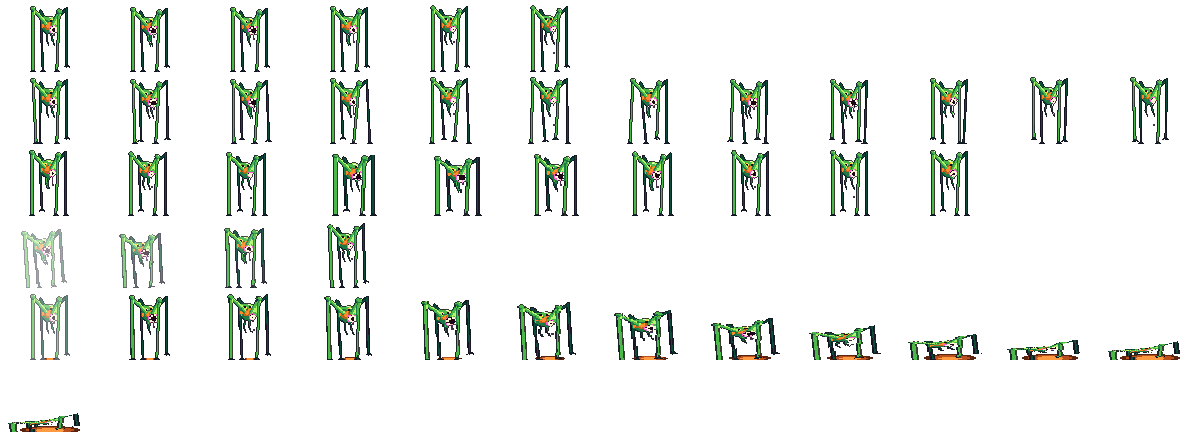
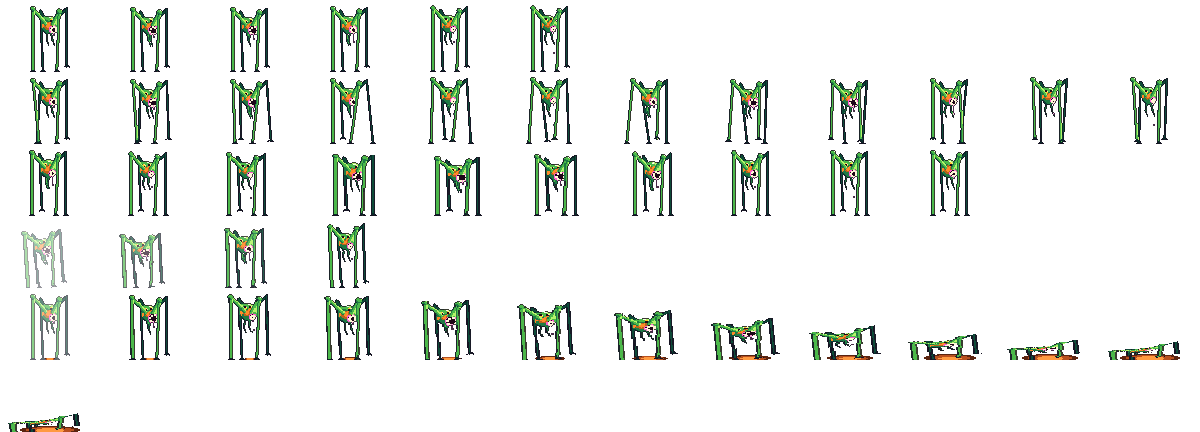
Enemies: walk cadence follows speed (no foot sliding), the blob humps, longarm strides longer
Suites run: enemy_cadence, enemy_variety, enemy_mind, flyer, roll, breach, flat_follow, softlock, building_floors, crowd_push, stair_block, floor_adopt, survivor_ai. Full suite not run.
Claude-Session: https://claude.ai/code/session_01ANpZxvvcv9nsgWy9iXumGL

diff --git a/tools/art/creatures.py b/tools/art/creatures.py
@@ -357,7 +357,7 @@ def reach(c, ph, pulse, walking, fr):
     bob = 0.9 * math.sin(4 * math.pi * ph) if walking else 0.7 * pulse
     bx, by = 21.0, 20.0 + bob
     homes = (8.0, 16.0, 27.0, 35.0)
-    feet = [step(ph + (0.0, 0.5, 0.25, 0.75)[k], homes[k], 5.0 if walking else 0.0, 4.0) for k in range(4)]
+    feet = [step(ph + (0.0, 0.5, 0.25, 0.75)[k], homes[k], 10.0 if walking else 0.0, 4.0) for k in range(4)]   # stride 10 x 1.25: right for ~19 px/s (WALK_DESIGN_SPEED)
     elbows = ((8.0, 7.0), (14.0, 9.0), (29.0, 9.0), (35.0, 7.0))
     for k in (1, 3):
         P.limb(c, (bx + (-2 if k < 2 else 2), by - 2.0), (elbows[k][0], elbows[k][1] + bob), 2.8, far, near=False)

diff --git a/docs/ENEMY_MOVEMENT.md b/docs/ENEMY_MOVEMENT.md
@@ -46,3 +46,22 @@ without taking damage, but it's not a big distance, so if they mis-roll they cou
   and firm up again once you are clear — end a roll INSIDE a pack and you are stood among them with an empty bar.
 - **Low**: the roll sets `is_crouching`, so a flyer's bite passes over you and the flyer lets you through; the roll ends standing.
 - Placeholder: the `roll` frames are the people rig's tuck (`tools/art/player_rigs.py`); no roll sound, no dust, no HUD hint yet. `tests/roll_test` covers the rules.
+
+## Motion review (2026-11-21)
+
+Finding: every kind's Walk played at one fixed 9 fps, but the kinds move at 15-40 px/s, so the drawn feet slid on the floor. The ground a drawn stride covers is `2 x stride x scale / 1.33 s`
+(`creatures.step`): standard 27 px/s (moves at 40: ~1.5x too fast), big 15 (25), longarm 9 (38: ~4x), spitter 18 (30).
+Fix: `enemy_zombie_standard._sync_walk_cadence` (and the same in `enemy_zombie_big.gd`, which does not extend it) plays a Walk at `|velocity.x| / WALK_DESIGN_SPEED`, clamped 0.3-2.4; an Attack / Hit / Idle plays at 1.0.
+
+| kind | speed | `WALK_DESIGN_SPEED` | cadence at full speed | how it moves, differently from the rest |
+|---|---|---|---|---|
+| standard | 40 | 27 | 1.48x | upright shamble; steps quicken and slow with its speed |
+| big | 25 | 15 | 1.67x | heavy: slow four-legged lumber |
+| longarm | 38 | 19 (drawn stride 5 -> 10) | 2.0x | long, wide arm-strides |
+| spitter | 30 | 18 | 1.67x | slow stalk, stops to spit |
+| crawler (blob) | 26 mean | own rate | - | no feet: it HUMPS - speed follows its drawn wave (`_hump`: 0.25-1.75 x, mean 1), then pounces |
+| flyer | 56 base | 56 | 0.3-2.4x | surges, twitches, scream + spin dive; fur shivers faster in a surge |
+
+`tests/enemy_cadence_test` pins the cadence band for every kind and the blob's hump (mean = its old crawl speed).
+
+Not done / owner's call: a standard's own stumble or stagger gait (it would change the commonest enemy's timing); a footstep sound per kind; the longarm's stride 10 is a first try (look at it moving); speeds themselves are unchanged.

diff --git a/docs/STATUS_LOG.md b/docs/STATUS_LOG.md
@@ -2607,3 +2607,4 @@ round at the bottom, above the "Not started" line. An entry marked SUPERSEDED is
 - Flyer v2 (owner: "no legs, always airborne, random, violent, furry… maw opens, screams, spins at the player"): a legless fur ball, twitches + surges, scream-then-spin dive (`docs/ENEMY_MOVEMENT.md`).
 - THE DIVE ROLL (owner: sprint + crouch = a low forward roll, a full bar like a push, nothing lands, through enemies, short): `player.gd` (`can_start_roll`, `_start_roll`, `_end_roll`, `_roll_pass_through`, `_begin_hit` refuses while rolling), `enemy_zombie_standard._try_resolidify` waits while the player rolls. `tests/roll_test` NEW. Unplayed; no sound / dust / HUD hint; not reachable on touch.
 - Full suite run: 88 suites, 0 bad.
+- Motion review (owner: "do the motion review for each enemy type"): foot-slide fix by syncing the Walk rate to the body's speed for every kind (`_sync_walk_cadence`, per-kind `WALK_DESIGN_SPEED`); the blob humps with its wave; longarm stride 5 -> 10; `tests/enemy_cadence_test` NEW; `roll_test` made trait-aware (a two-charge character needs half a bar). Suites run: enemy_cadence, enemy_variety, enemy_mind, flyer, roll (8x), breach, flat_follow, softlock, building_floors, crowd_push, stair_block, floor_adopt, survivor_ai. NOT run: the full suite.
